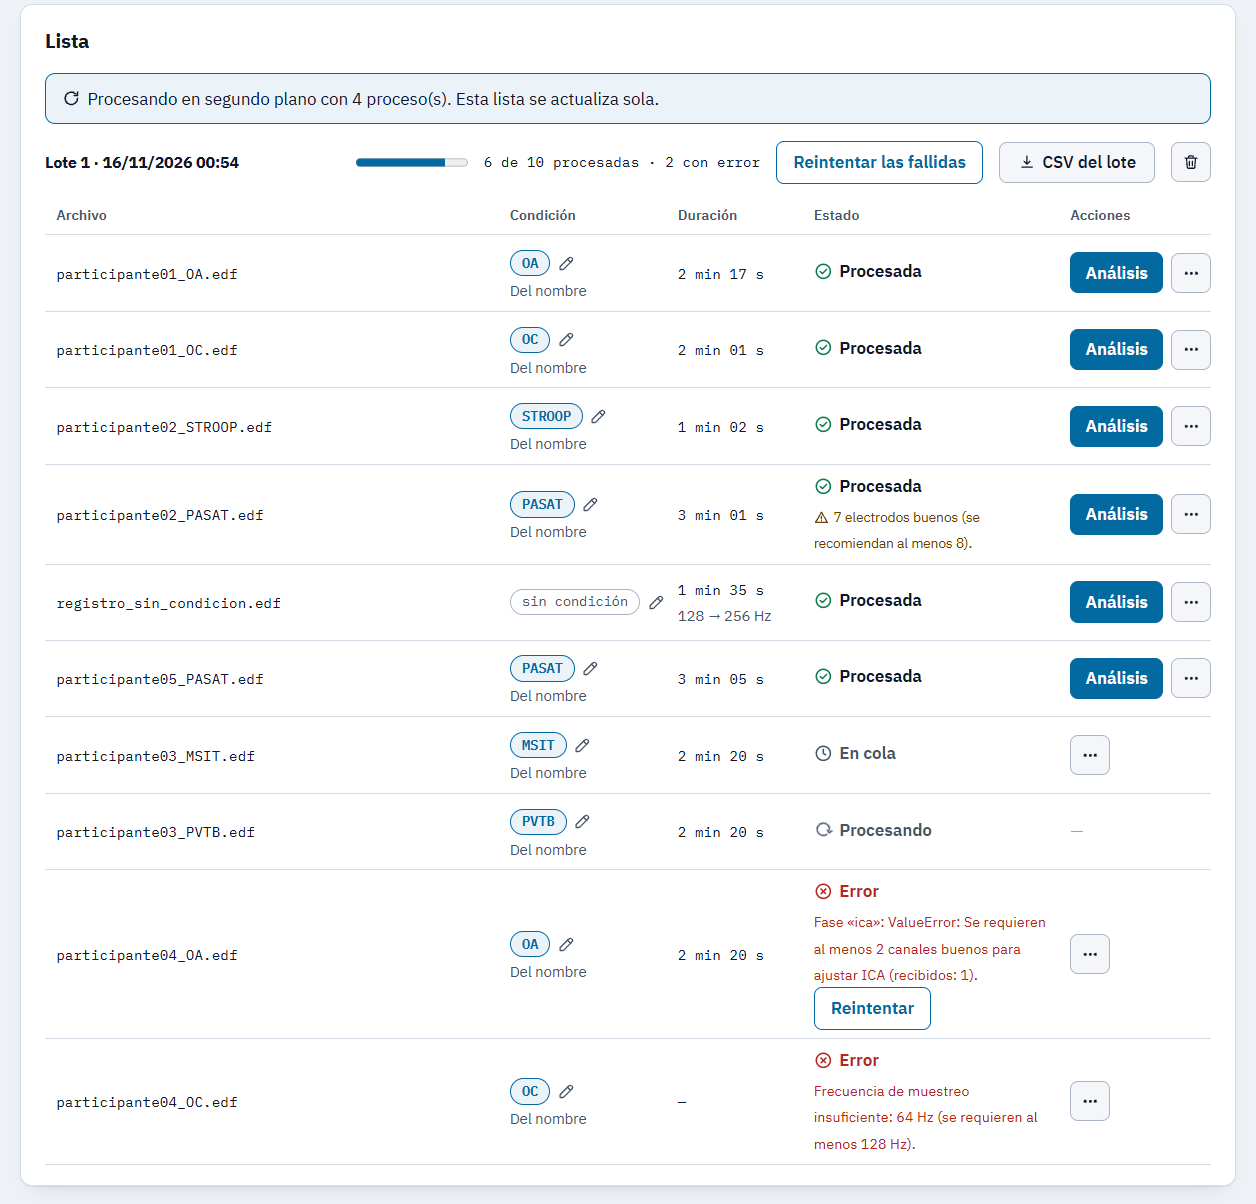
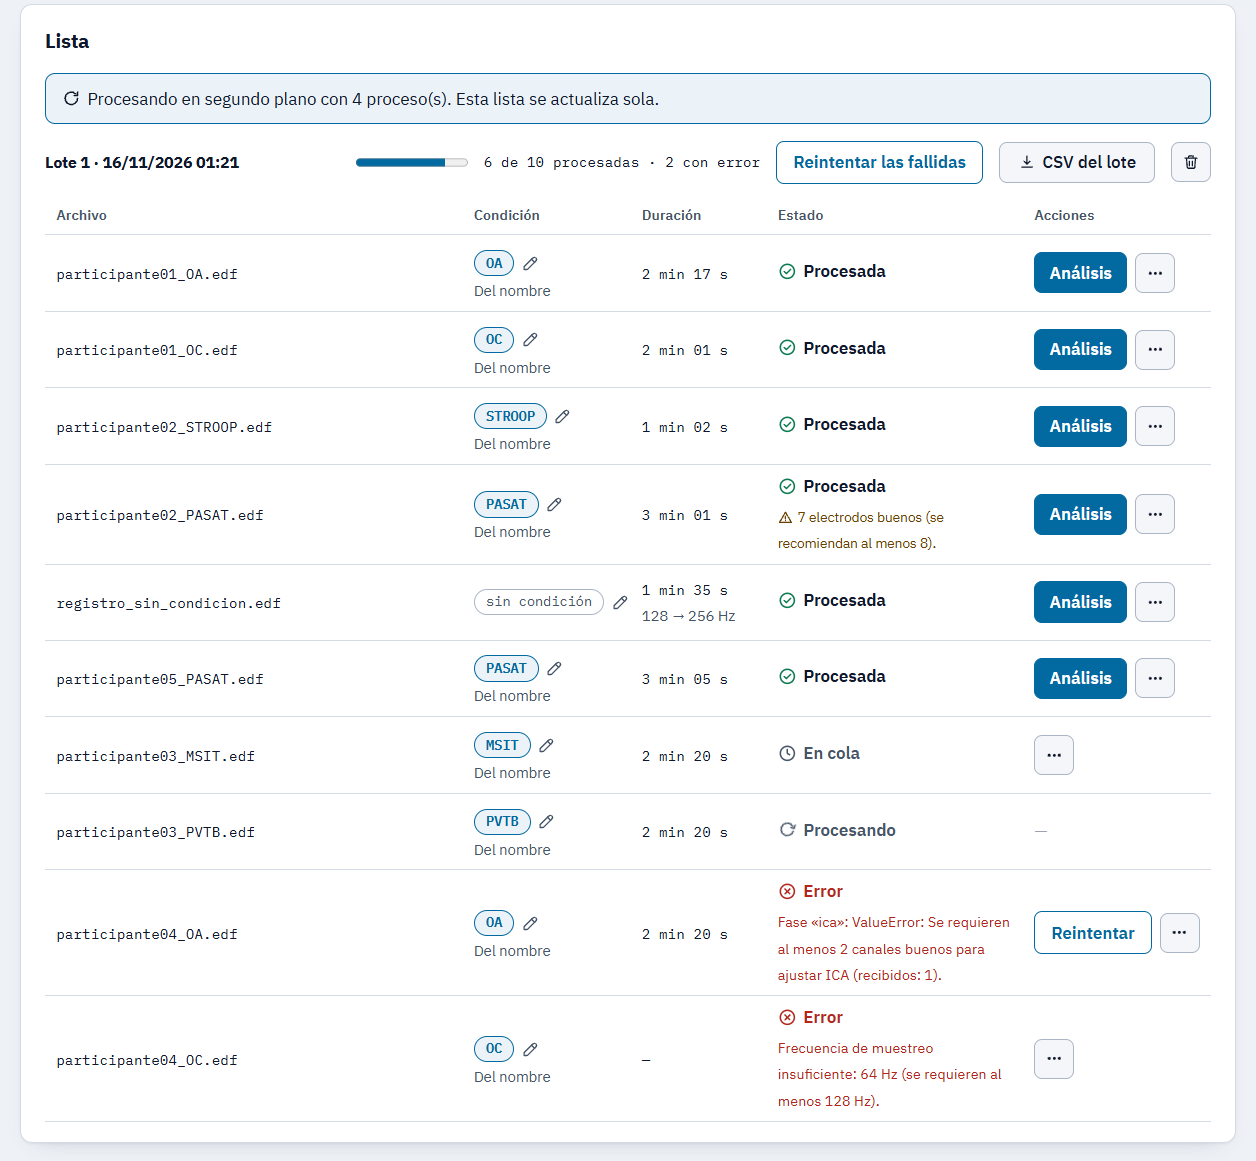
Lista: Reintentar en la columna de acciones, junto al menú

diff --git a/templates/grabaciones/_lista.html b/templates/grabaciones/_lista.html
@@ -76,12 +76,6 @@
                 {% with aviso=g.aviso_canales %}
                   {% if aviso.1 %}<br><span class="aviso-canales aviso-canales-{{ aviso.0 }}"><svg class="ico" aria-hidden="true"><use href="#i-aviso"/></svg>{{ aviso.1 }}</span>{% endif %}
                 {% endwith %}
-                {% if g.reintentable %}
-                  <form method="post" action="{% url 'grabaciones:encolar' g.pk %}" class="en-linea">
-                    {% csrf_token %}
-                    <button type="submit" class="secundario">Reintentar</button>
-                  </form>
-                {% endif %}
               </div></td>
               <td data-etiqueta="Acciones" class="acciones-fila"><div class="celda">
                 {% if g.estado == "procesada" %}
@@ -103,6 +97,12 @@
                 {% elif g.estado == "procesando" %}
                   <span class="desactivado" aria-disabled="true" title="Se podrá eliminar cuando termine de procesarse">—</span>
                 {% else %}
+                  {% if g.reintentable %}
+                  <form method="post" action="{% url 'grabaciones:encolar' g.pk %}" class="en-linea">
+                    {% csrf_token %}
+                    <button type="submit" class="secundario">Reintentar</button>
+                  </form>
+                  {% endif %}
                   <details class="menu" data-pk="{{ g.pk }}">
                     <summary class="boton" aria-label="Más acciones de {{ g.nombre_original }}"><svg class="ico" aria-hidden="true"><use href="#i-mas"/></svg></summary>
                     <div class="menu-lista">

diff --git a/static/css/estilos.css b/static/css/estilos.css
@@ -425,14 +425,14 @@ details h3 { font-size: 1rem; margin: 1.25rem 0 0.5rem; }
 p.nota { max-width: none; }
 .ico-grande { display: block; width: 36px; height: 36px; margin: 0 auto 0.5rem; color: var(--acento); }
 /* Columnas con el mismo ancho en todos los lotes. Las estrechas llevan un ancho mínimo real (cabe «10 min 10 s» y
-   «Análisis ···» sin partirse); Archivo se queda con lo que sobra y Estado con un reparto fijo. Las filas tienen
+   «Análisis ···» y «Reintentar ···» sin partirse); Archivo se queda con lo que sobra y Estado con un reparto fijo. Las filas tienen
    una altura mínima común para que no salten al cambiar de estado. */
 @media (min-width: 901px) {
   .tabla-lista { table-layout: fixed; width: 100%; min-width: 52rem; }
   .tabla-lista th:nth-child(2) { width: 10.5rem; }
   .tabla-lista th:nth-child(3) { width: 8.5rem; }
   .tabla-lista th:nth-child(4) { width: 22%; }
-  .tabla-lista th:nth-child(5) { width: 9.5rem; }
+  .tabla-lista th:nth-child(5) { width: 11.75rem; }
   .tabla-lista tbody td { height: 4.75rem; }
   .tabla-lista td:nth-child(2) .origen, .tabla-lista td:nth-child(3) .celda { white-space: nowrap; }
 }

diff --git a/tests/test_procesador.py b/tests/test_procesador.py
@@ -190,6 +190,16 @@ def test_reintentar_una_fallida(client, bytes_edf):
     assert g.estado == "en_cola" and g.mensaje_error == ""
 
 
+def test_reintentar_va_en_la_columna_de_acciones(client, bytes_edf):
+    subir(client, [bytes_edf])
+    g = Grabacion.objects.get()
+    Grabacion.objects.filter(pk=g.pk).update(estado="error", mensaje_error="fallo")
+    html = client.get("/grabaciones/").content.decode()
+    fila = html[html.index('data-etiqueta="Estado"'):]
+    assert ">Reintentar<" not in fila[:fila.index('data-etiqueta="Acciones"')]
+    assert ">Reintentar<" in fila[fila.index('data-etiqueta="Acciones"'):]
+
+
 def test_reprocesar_conserva_el_resultado_hasta_el_nuevo(client, bytes_edf):
     subir(client, [bytes_edf])
     procesador.trabajar(1, una_vez=True, fabrica_ejecutor=EjecutorSincrono())
